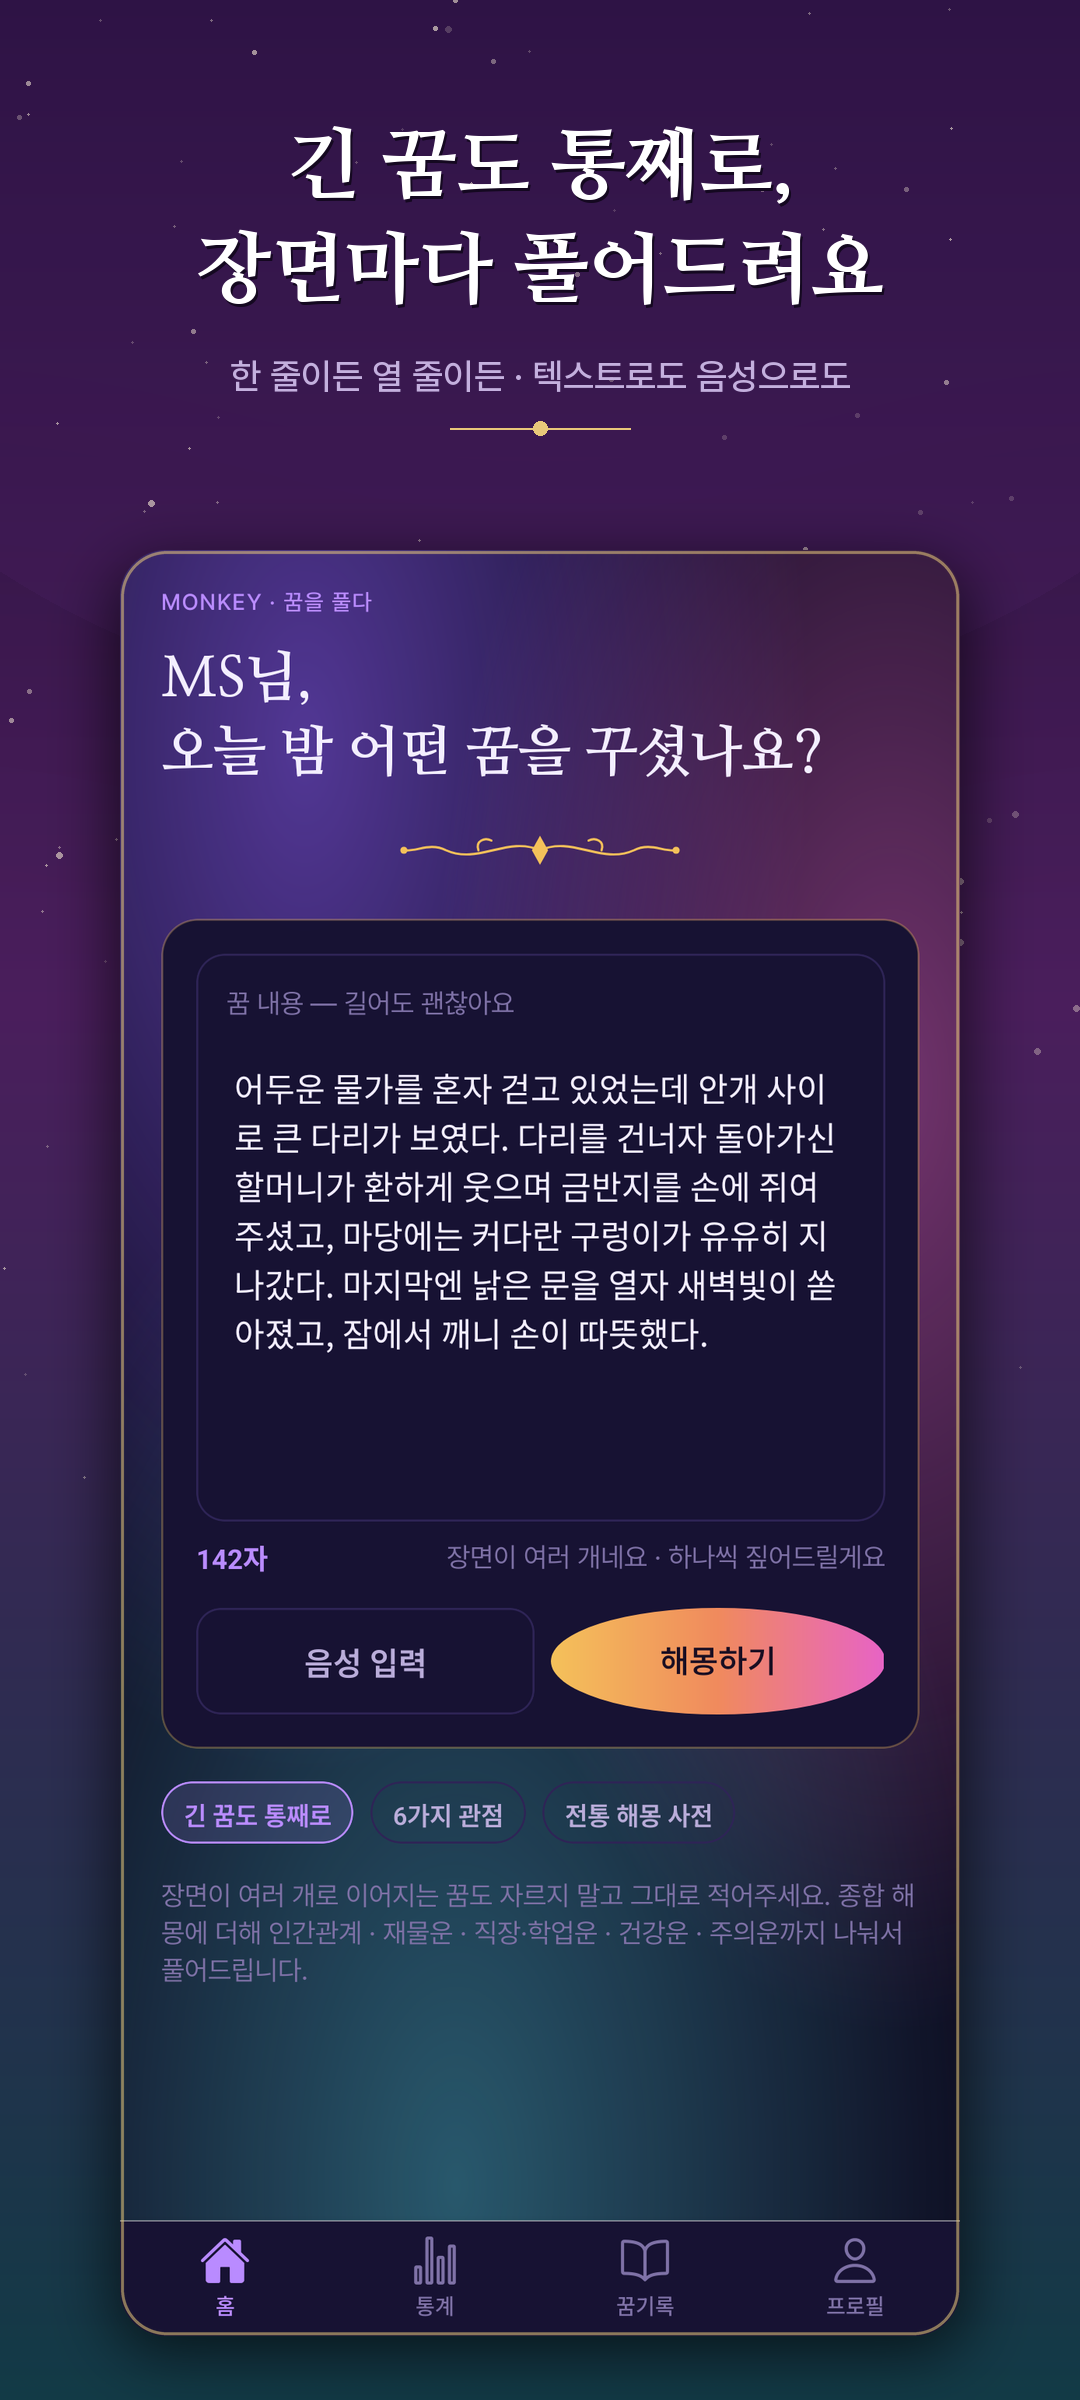
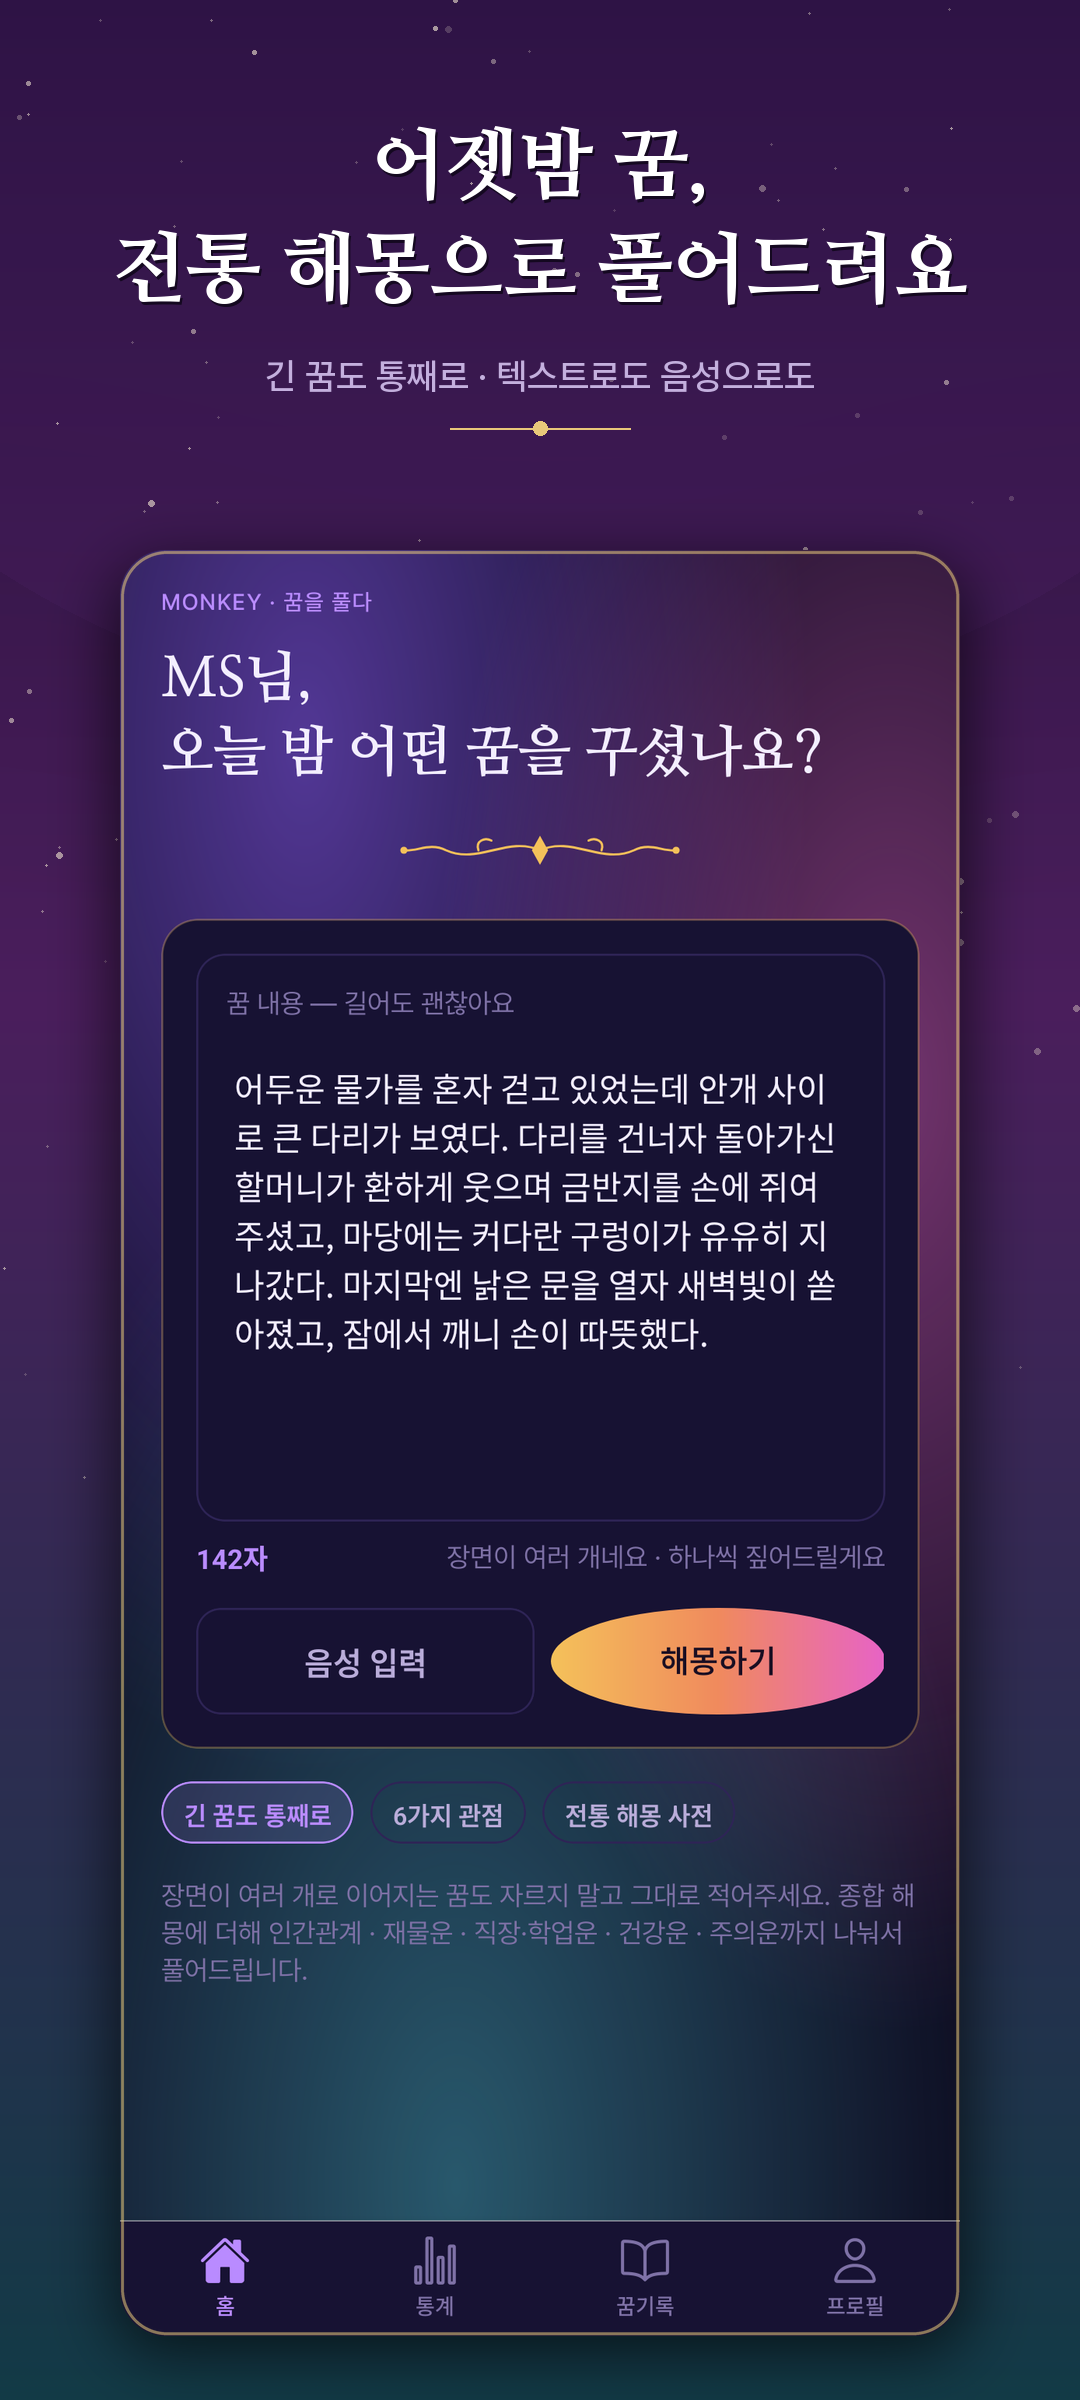
chore(store-assets): 캡션·피처 그래픽에 해몽 키워드 반영 + 그래픽 스크립트 경로 상대화

Changed region(s): [[0.1222, 0.0312, 0.8861, 0.1875]]

diff --git a/scripts/gen-store-screenshots.py b/scripts/gen-store-screenshots.py
@@ -46,20 +46,20 @@ SHOTS = [
     {
         "out": "screenshot-2-home.png",
         "raw": "2-home.png",
-        "headline": ["긴 꿈도 통째로,", "장면마다 풀어드려요"],
-        "sub": "한 줄이든 열 줄이든 · 텍스트로도 음성으로도",
+        "headline": ["어젯밤 꿈,", "전통 해몽으로 풀어드려요"],
+        "sub": "긴 꿈도 통째로 · 텍스트로도 음성으로도",
     },
     {
         "out": "screenshot-3-diary-cards.png",
         "raw": "3-diary-cards.png",
-        "headline": ["꿈은 한 장의", "카드로 쌓입니다"],
+        "headline": ["꿈일기는 한 장의", "카드로 쌓입니다"],
         "sub": "넘겨보며 지난 꿈을 다시 만나요",
     },
     {
         "out": "screenshot-4-stats.png",
         "raw": "4-stats.png",
         "headline": ["내 꿈의 흐름을", "한눈에"],
-        "sub": "자주 등장한 상징과 그 뜻, 그리고 기록 추이",
+        "sub": "자주 나타난 꿈 상징과 그 뜻, 기록 추이",
     },
     {
         "out": "screenshot-5-card.png",
@@ -70,8 +70,8 @@ SHOTS = [
     {
         "out": "screenshot-6-interpretation.png",
         "raw": "6-interpretation.png",
-        "headline": ["종합 해몽부터", "오늘의 한마디까지"],
-        "sub": "관계 · 재물 · 직장까지 나눠서 읽어드려요",
+        "headline": ["태몽·길몽·꿈풀이까지", "나눠서 읽어드려요"],
+        "sub": "종합 해몽 · 관계 · 재물 · 직장 · 건강",
     },
 ]
 
